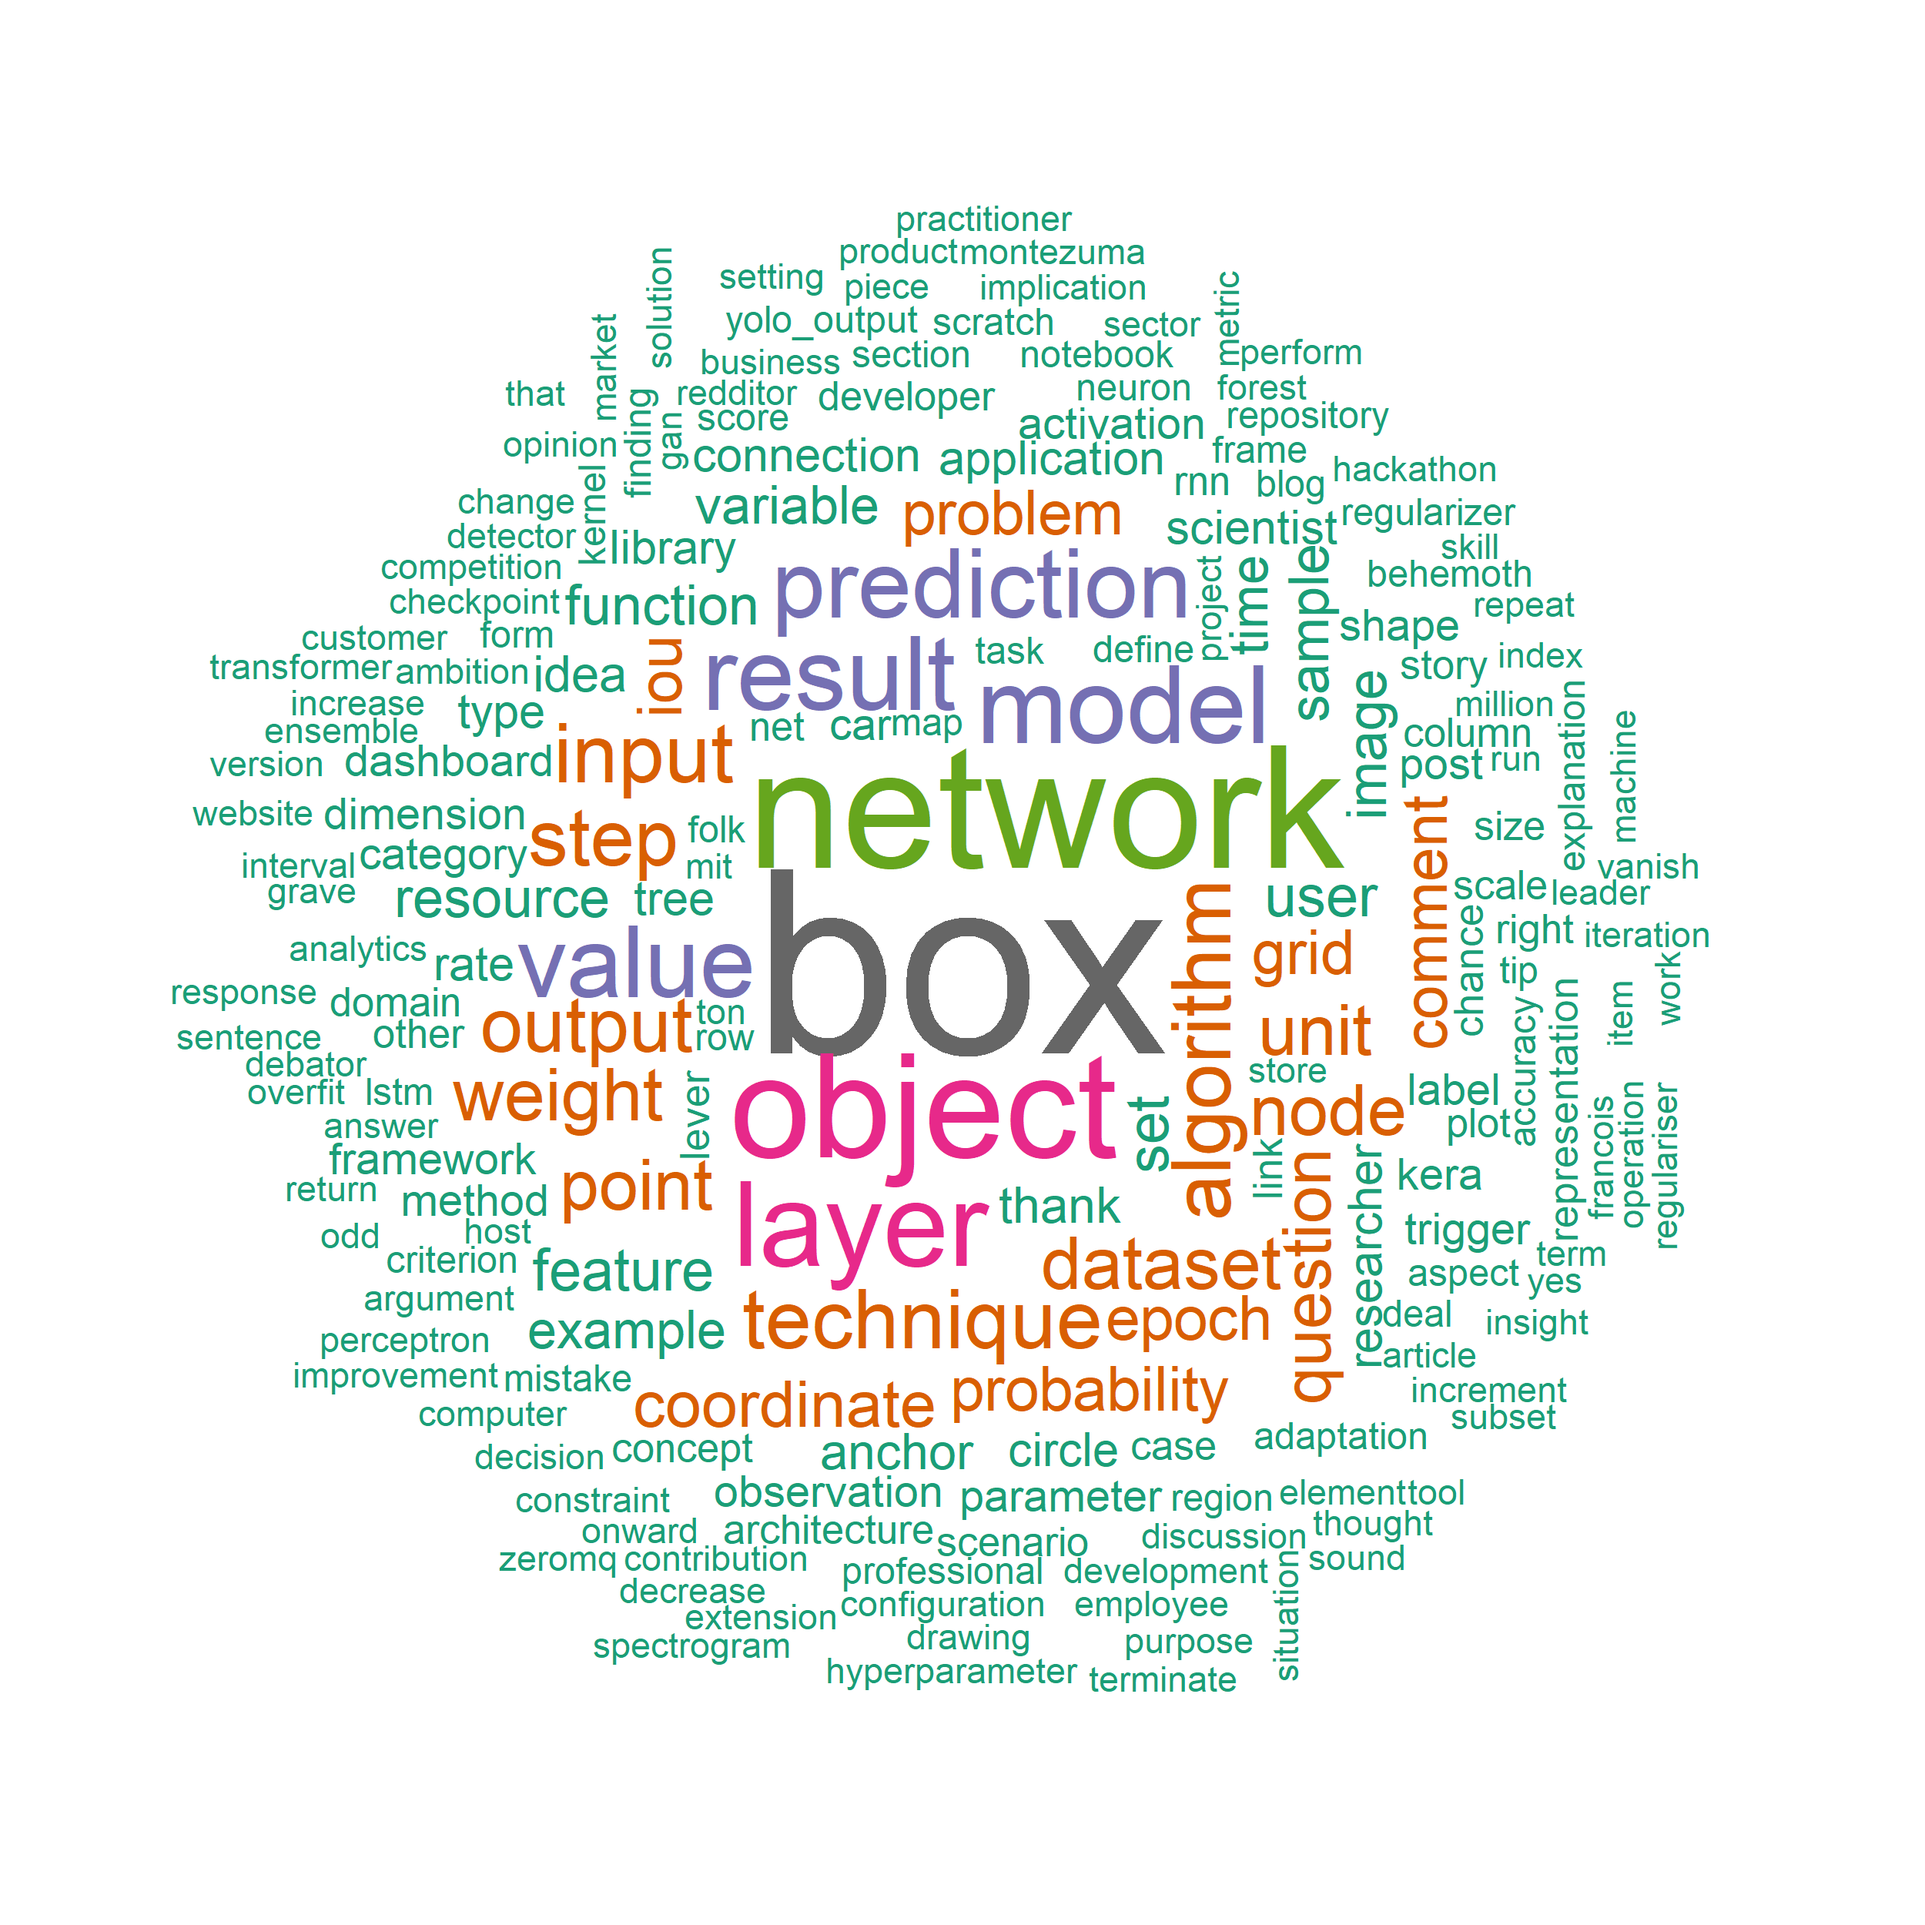
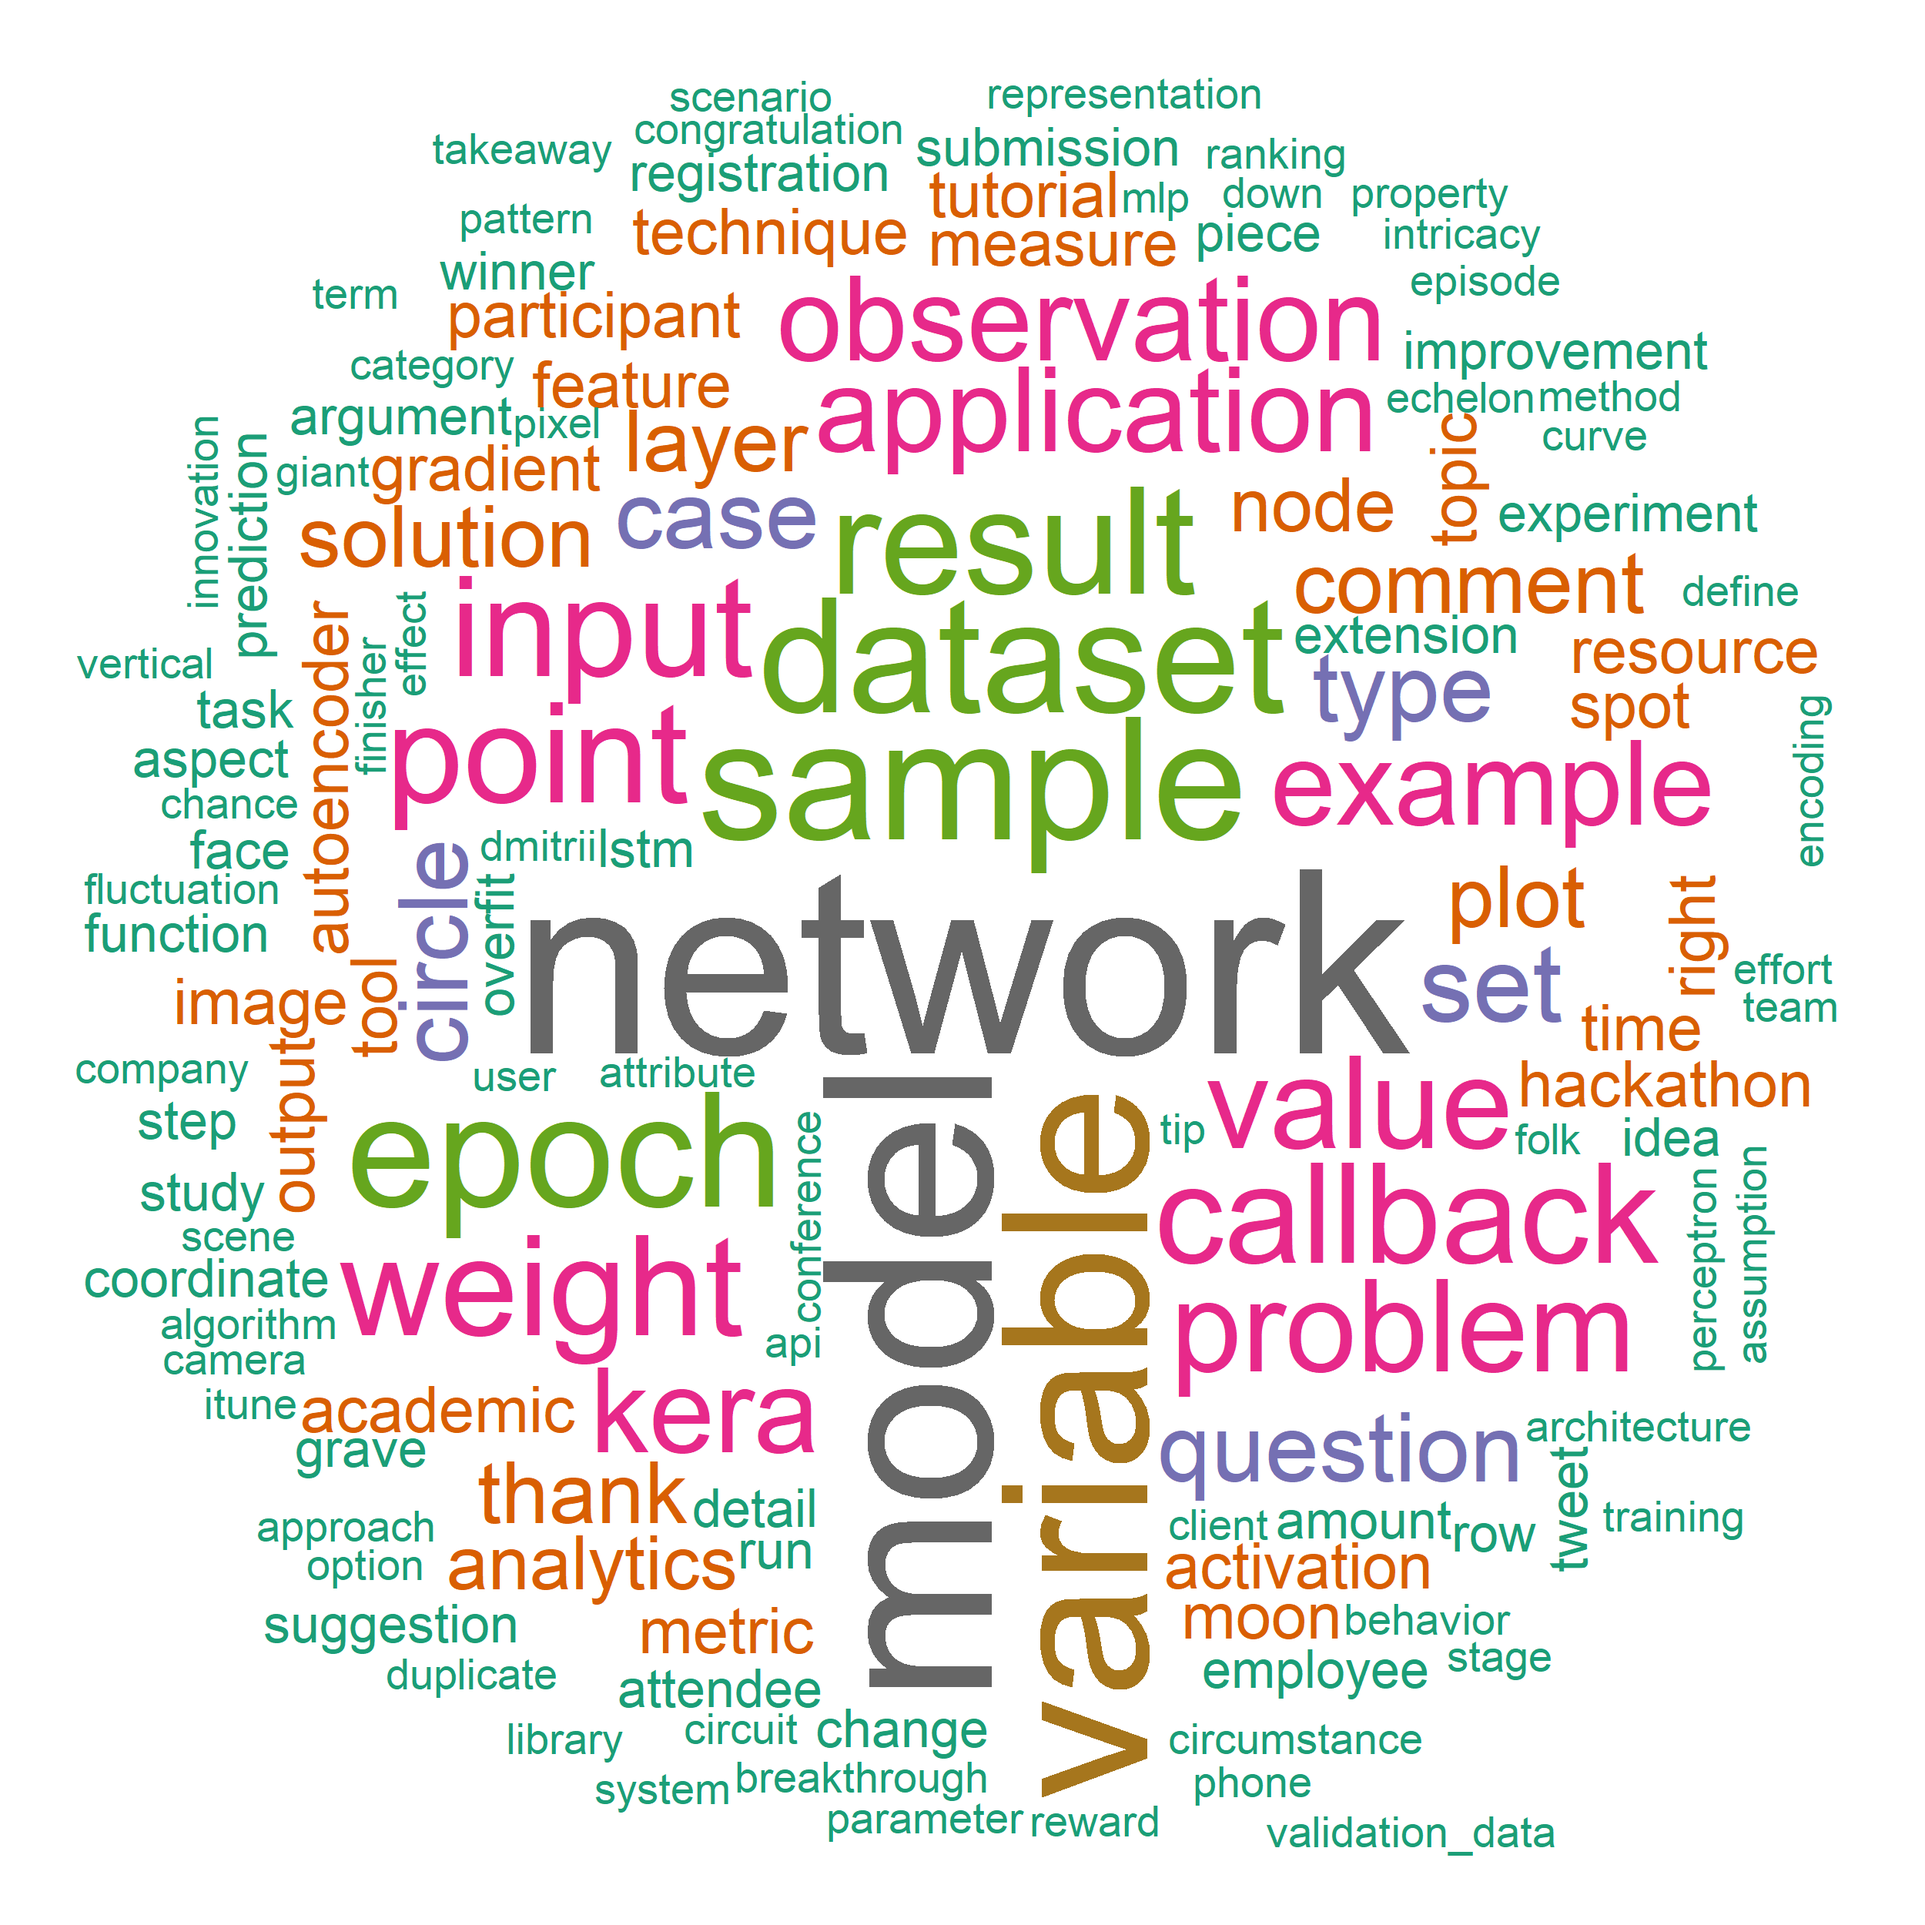
Hyunseo

Changed region(s): [[0.0312, 0.0312, 0.9672, 0.9672], [0.936, 0.3432, 0.9672, 0.4368], [0.156, 0.1248, 0.1872, 0.156]]

diff --git a/data/newsletter/input/html/vidhya_out.html b/data/newsletter/input/html/vidhya_out.html
@@ -1,4 +1,2 @@
-<ul><li><a href="https://www.analyticsvidhya.com/blog/2018/12/practical-guide-object-detection-yolo-framewor-python/">A Practical Guide to Object Detection using the Popular YOLO Framework <U+2013> Part III (with Python codes)</a></li></ul><p style = "margin-left: 0 px">Keyword(freq): box(38), object(19), algorithm(7), coordinate(5), grid(5), iou(5), prediction(5), probability(5), value(5), image(4)</p>
-<ul><li><a href="https://www.analyticsvidhya.com/blog/2018/12/best-machine-learning-github-repositories-reddit-threads-november-2018/">5 Best Machine Learning GitHub Repositories & Reddit Discussions (November 2018)</a></li></ul><p style = "margin-left: 0 px">Keyword(freq): comment(4), developer(2), folk(2), neuron(2), repository(2), representation(2), researcher(2), resource(2), algorithm(1), ambition(1)</p>
-<ul><li><a href="https://www.analyticsvidhya.com/blog/2018/12/building-a-random-forest-from-scratch-understanding-real-world-data-products-ml-for-programmers-part-3/">Building a Random Forest from Scratch & Understanding Real-World Data Products (ML for Programmers <U+2013> Part 3)</a></li></ul><p style = "margin-left: 0 px">Keyword(freq): point(10), technique(10), feature(9), result(9), prediction(8), step(6), value(6), application(5), model(5), tree(5)</p>
-<ul><li><a href="https://www.analyticsvidhya.com/blog/2018/12/practical-guide-object-detection-yolo-framewor-python/">A Practical Guide to Object Detection using the Popular YOLO Framework <U+2013> Part III (with Python codes) </a></li></ul><p style = "margin-left: 0 px">Keyword(freq): box(38), object(19), algorithm(7), coordinate(5), grid(5), iou(5), prediction(5), probability(5), value(5), image(4)</p>
+<ul><li><a href="https://www.analyticsvidhya.com/blog/2018/12/wns-hackathon-solutions-by-top-finishers/">WNS Hackathon Solutions by Top Finishers</a></li></ul><p style = "margin-left: 0 px">Keyword(freq): solution(5), analytics(4), hackathon(3), model(3), participant(3), employee(2), registration(2), row(2), submission(2), winner(2)</p>
+<ul><li><a href="https://www.analyticsvidhya.com/blog/2018/12/introduction-face-detection-video-deep-learning-python/">Building a Face Detection Model from Video using Deep Learning (Python Implementation)</a></li></ul><p style = "margin-left: 0 px">Keyword(freq): application(8), case(4), technique(3), tool(3), attendee(2), comment(2), detail(2), face(2), image(2), suggestion(2)</p>

diff --git a/data/newsletter/input/html/mastery_out.html b/data/newsletter/input/html/mastery_out.html
@@ -1,3 +1,3 @@
-<ul><li><a href="https://machinelearningmastery.com/early-stopping-to-avoid-overtraining-neural-network-models/">A Gentle Introduction to Early Stopping to Avoid Overtraining Deep Learning Neural Network Models</a></li></ul><p style = "margin-left: 0 px">Keyword(freq): network(12), epoch(9), model(7), time(4), trigger(4), value(4), dataset(3), parameter(3), result(3), set(3)</p>
-<ul><li><a href="https://machinelearningmastery.com/how-to-reduce-overfitting-with-dropout-regularization-in-keras/">How to Reduce Overfitting With Dropout Regularization in Keras</a></li></ul><p style = "margin-left: 0 px">Keyword(freq): input(12), layer(11), circle(5), output(5), sample(5), dataset(4), kera(4), model(4), network(4), observation(4)</p>
-<ul><li><a href="https://machinelearningmastery.com/dropout-for-regularizing-deep-neural-networks/">A Gentle Introduction to Dropout for Regularizing Deep Neural Networks</a></li></ul><p style = "margin-left: 0 px">Keyword(freq): network(29), layer(18), unit(11), node(10), weight(9), model(7), output(5), result(5), problem(4), rate(4)</p>
+<ul><li><a href="https://machinelearningmastery.com/how-to-improve-deep-learning-model-robustness-by-adding-noise/">How to Improve Deep Learning Model Robustness by Adding Noise</a></li></ul><p style = "margin-left: 0 px">Keyword(freq): value(7), circle(5), dataset(5), kera(5), layer(5), model(5), sample(5), epoch(4), observation(4), point(4)</p>
+<ul><li><a href="https://machinelearningmastery.com/train-neural-networks-with-noise-to-reduce-overfitting/">Train Neural Networks With Noise to Reduce Overfitting</a></li></ul><p style = "margin-left: 0 px">Keyword(freq): network(16), variable(10), input(9), weight(9), example(5), type(5), model(4), point(4), sample(4), activation(3)</p>
+<ul><li><a href="https://machinelearningmastery.com/how-to-stop-training-deep-neural-networks-at-the-right-time-using-early-stopping/">How to Stop Training Deep Neural Networks At the Right Time Using Early Stopping</a></li></ul><p style = "margin-left: 0 px">Keyword(freq): callback(10), epoch(8), model(7), network(4), observation(4), problem(4), result(4), sample(4), set(4), dataset(3)</p>

diff --git a/data/newsletter/input/html/kaggle_out.html b/data/newsletter/input/html/kaggle_out.html
@@ -1,1 +1,1 @@
-<ul><li><a href="http://blog.kaggle.com/2018/12/05/announcing-kaggle-integration-with-google-data-studio/">Announcing Kaggle integration with Google Data Studio</a></li></ul><p style = "margin-left: 0 px">Keyword(freq): user(8), dataset(5), dashboard(4), story(3), finding(2), kernel(2), analytics(1), blog(1), decision(1), developer(1)</p>
+<li>no new article</li>

diff --git a/data/newsletter/input/html/datacamp_out.html b/data/newsletter/input/html/datacamp_out.html
@@ -1,1 +1,1 @@
-<li>no new article</li>
+<ul><li><a href="https://www.datacamp.com/community/blog/dataframed-challenge">Enter the #DataFramedChallenge for a chance to be on an upcoming podcast segment.</a></li></ul><p style = "margin-left: 0 px">Keyword(freq): tweet(2), chance(1), duplicate(1), episode(1), itune(1), NA(NA), NA(NA), NA(NA), NA(NA), NA(NA)</p>

diff --git a/_posts/newsletters/2018-12-15-newsletter.md b/_posts/newsletters/2018-12-15-newsletter.md
@@ -1,0 +1,50 @@
+---
+layout: post
+title: 2018.12.15. 데이터 사이언스 뉴스레터
+category: newsletters
+tags: [Machine learning, Data Science article]
+hidden: true
+---
+
+데이터 사이언스 뉴스레터 ([wordcloud](https://raw.githubusercontent.com/2econsulting/2econsulting.github.io/master/data/newsletter/output/report/wordcloud_20181215.png))
+
+<br>
+
+#### Kaggle Blog NEWS TITLE
+
+* no new article
+
+
+
+<br>
+
+#### Data Camp NEWS TITLE
+
+* [Enter the #DataFramedChallenge for a chance to be on an upcoming podcast segment.](https://www.datacamp.com/community/blog/dataframed-challenge)
+<br>Keyword(freq): tweet(2), chance(1), duplicate(1), episode(1), itune(1), NA(NA), NA(NA), NA(NA), NA(NA), NA(NA)
+
+<br>
+
+#### Analytics Vidhya NEWS TITLE
+
+* [WNS Hackathon Solutions by Top Finishers](https://www.analyticsvidhya.com/blog/2018/12/wns-hackathon-solutions-by-top-finishers/)
+<br>Keyword(freq): solution(5), analytics(4), hackathon(3), model(3), participant(3), employee(2), registration(2), row(2), submission(2), winner(2)
+
+* [Building a Face Detection Model from Video using Deep Learning (Python Implementation)](https://www.analyticsvidhya.com/blog/2018/12/introduction-face-detection-video-deep-learning-python/)
+<br>Keyword(freq): application(8), case(4), technique(3), tool(3), attendee(2), comment(2), detail(2), face(2), image(2), suggestion(2)
+
+<br>
+
+#### Machine Learning Mastery NEWS TITLE
+
+* [How to Improve Deep Learning Model Robustness by Adding Noise](https://machinelearningmastery.com/how-to-improve-deep-learning-model-robustness-by-adding-noise/)
+<br>Keyword(freq): value(7), circle(5), dataset(5), kera(5), layer(5), model(5), sample(5), epoch(4), observation(4), point(4)
+
+* [Train Neural Networks With Noise to Reduce Overfitting](https://machinelearningmastery.com/train-neural-networks-with-noise-to-reduce-overfitting/)
+<br>Keyword(freq): network(16), variable(10), input(9), weight(9), example(5), type(5), model(4), point(4), sample(4), activation(3)
+
+* [How to Stop Training Deep Neural Networks At the Right Time Using Early Stopping](https://machinelearningmastery.com/how-to-stop-training-deep-neural-networks-at-the-right-time-using-early-stopping/)
+<br>Keyword(freq): callback(10), epoch(8), model(7), network(4), observation(4), problem(4), result(4), sample(4), set(4), dataset(3)
+
+<br>
+
